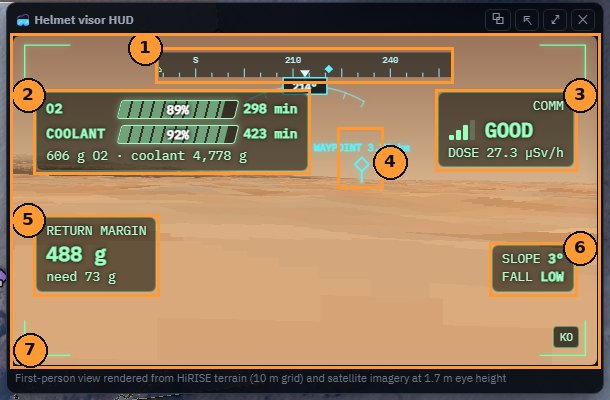
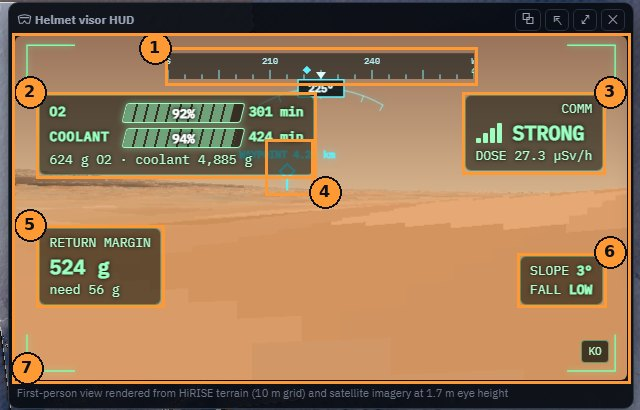
README for judges: download note, 60-second walkthrough, challenge coverage, how it works, repo map; Korean README
- Demo section explains that GitHub shows HTML as source (download raw, then open) and links the presentation page
- Fixed outdated claims (outside-data sites can no longer be picked), added the Viking globe to NASA data,
  expanded limitations, refreshed the visor guide image
- README.ko.md: full Korean version, cross-linked

Claude-Session: https://claude.ai/code/session_01ScDBVWBwv6KDPXFuV3qihM

diff --git a/README.ko.md b/README.ko.md
@@ -1,0 +1,153 @@
+# Mars EVA Walkback & Survival Planner (화성 EVA 귀환·생존 계획 도구)
+
+**NASA Space Apps 2026 · Interplanetary Survival Guide: Martian Map** · [English](README.md) | 한국어
+
+> ### 지금 무언가 고장 나면, 우주인은 걸어서 거점까지 돌아올 수 있을까?
+
+남은 산소·냉각수·방사선 여유로 **EVA 대원이 살아서 돌아올 수 있는 곳**, 어느 지점에서든 **가장 안전한 귀환 경로**,
+그리고 조사하고 싶은 지점에서 **얼마나 오래 작업할 수 있는지**를 보여 주는 10 m 해상도 화성 지도입니다.
+
+**▶ 데모:** [`reports/18-eva-walkback-demo.html`](reports/18-eva-walkback-demo.html) — 설치 없이 오프라인으로 열리는 HTML 파일 하나입니다.
+GitHub는 HTML을 실행하지 않고 소스로 보여 주므로, 링크에서 **Download raw file**을 눌러 받은 뒤 더블클릭하세요
+(데스크톱 Chrome/Edge, 가로 1440 px 이상 권장).
+플래너가 들어간 발표 페이지는 [`submission/Martian-Map-NASAJOIM.html`](submission/Martian-Map-NASAJOIM.html)입니다.
+
+### 60초 체험
+
+1. 처음에는 **Gale 크레이터**가 열립니다. 집 모양이 거점, 화살표가 대원입니다.
+2. **깃발**(Curiosity가 실제로 조사한 지점)을 한두 개 누르세요. 계획 카드에 가는 시간·복귀 시간·작업 시간이 나오고 **OPTIMAL** 계획이 자동으로 골라집니다.
+3. **▶**를 누르면 산소를 쓰면서 색 영역이 줄어드는 것이 보입니다. **Return now**를 누르면 그 자리에서 바로 돌아섭니다.
+4. 오른쪽 아래 **바이저**로 대원의 1인칭 시점을, **지구본**으로 Jezero·Aram Chaos 전환을 해 보세요.
+
+### 챌린지 요구사항과의 대응
+
+| 챌린지가 요구한 것 | 이 플래너에서 |
+|---|---|
+| 지표 탐사 중 우주인이 쓸 수 있는 지도·도구 | 전체 화면 플래너, 탐사 계획 카드, 헬멧 바이저 화면 |
+| 3종 이상의 NASA 자료를 겹쳐 쓰기 | 지형(HiRISE DTM), 광학(HiRISE·CTX·Viking 지구본), 열(THEMIS), 방사선(Curiosity RAD), 로버 이동 경로·Navcam 사진 |
+| 우주인 안전 최우선 | 10 m 칸마다 실제 귀환 경로로 산소·냉각수·선량·통신 확인, 회항 경보와 **Return now** |
+| 우주복·장비를 갖춘 이동성 | NASA 우주복 보행 시험(IST)으로 보행 비용 계산, 경사 20° 초과는 통행 불가, 지형 기복·모래는 비용 증가 |
+| 장애물을 피하는 경로 | 지형 위 산소 최소 경로, 통행 불가 지점은 가장 완만한 길로 |
+| 탐사 중 과학 | 지점은 Curiosity·Perseverance가 실제로 조사한 곳(드릴·시료 채취 지점), 깃발에 마우스를 올리면 한 일을 보여 줌 |
+| 1인칭 시점 이미지 | 정지 지점 근처 로버 Navcam 사진(로드뷰)과 지형으로 그린 1인칭 화면 |
+| 로버·2인 1조 운용 | 로버 모드와 Apollo walk-back 규칙: 로버가 고장 나도 모든 지점에서 걸어서 귀환 가능해야 함 |
+| 헬멧 바이저 HUD | 방위, 산소·냉각수, 통신, 귀환 여유, 경사·넘어짐 위험 |
+
+### 동작 원리
+
+1. **지형:** HiRISE 1 m DTM을 10 m 격자로 평균하고, 이웃 칸(16방향) 사이 경사와 1 m 고도에서 구한 기복 계수를 씁니다.
+2. **대사 비용:** 걷는 속도와 걸음마다의 산소 소모는 NASA IST 우주복 보행 회귀식을 화성 중력에 적용해 구합니다(평지 0.92 m/s에서 444 W). 냉각수는 버려야 할 열에서 계산합니다.
+3. **경로:** 거점에서 시작하는 Dijkstra 탐색으로 모든 칸에 대해 가는 데와 돌아오는 데 드는 최소 산소를 구합니다.
+4. **영역과 계획:** 왕복하고도 출발 산소의 20 % 넘게 남으면 파랑입니다. 계획은 설정한 복귀 여유를 지키면서 남는 시간을 지점별 작업 시간으로 나눕니다.
+
+모든 식과 계산 예시: [docs/METHODS.ko.md](docs/METHODS.ko.md)
+
+### 주요 기능
+
+- **귀환 가능 영역:** 10 m 칸마다 실제 귀환 경로로 산소·냉각수·선량·통신을 확인하고, 왕복 뒤 남는 산소를 색으로 보여 줍니다(>20 %, 10–20 %, 0–10 %).
+- **탐사 계획:** 산소·냉각수·복귀 여유를 넣고 지점을 최대 세 곳 고르면 **최적 방문 순서와 지점별 작업 시간**을 정합니다.
+- **재생과 회항:** 계획을 분 단위로 재생하며 영역이 줄어드는 모습, **회항 경보**, **Return now** 버튼을 보여 줍니다.
+- **가기 어려운 지점:** 경사 20°가 넘는 비탈 너머 지점도 가장 완만한 길로 갈 수 있습니다(경고 표시).
+- **화성 지구본의 세 지역:** Gale(Curiosity), Jezero(Perseverance), Aram Chaos. 고도 자료 밖 둘레는 배경으로 보여 줍니다.
+- **헬멧 바이저:** 지형으로 그린 1인칭 화면에 방위, 산소·냉각수 막대, 통신, 귀환 여유를 표시합니다.
+
+### 사용법
+
+![번호가 붙은 플래너 화면](docs/img/guide-planner.jpg)
+
+**머리줄과 오른쪽 도구**
+1. **현재 지역** — 지도에 보이는 지역.
+2. **설정**(톱니) — 언어, 상황(과학 EVA 포함), 산소·냉각수, 태양 입자 사건(SPE), 안전 옵션(표토, 모래언덕 자료가 있는 지역의 모래 계수), 지도 레이어. 오른쪽에서 열립니다.
+3. **지구본** — 화성 지구본(아래)에서 Gale·Jezero·Aram Chaos를 고릅니다. 지역을 바꾸면 고른 지점은 지워집니다.
+4. **로드뷰** — 각 정지 지점 근처에서 로버가 실제로 찍은 사진(NASA/JPL Navcam).
+5. **N** — 정북 위 ↔ 목표 방향 위(지금 가는 목표가 화면 위로). 대원 위치를 축으로 부드럽게 돕니다.
+6. **확대·축소** — 마우스 휠도 됩니다. 어디서든(고도 자료 밖 포함) 끌어서 이동합니다.
+7. **원래 보기**.
+8. **바이저**(오른쪽 아래) — 헬멧 1인칭 시점(아래).
+9. **상태** — 지금 산소·냉각수·선량·통신. 제목을 끌어 옮기고(두 번 누르면 원래 자리), 짧게 누르면 접힙니다.
+
+**지도**
+
+10. **거점**(집) — 대원(화살표)이 여기서 출발합니다. 집을 끌어 옮기면 대원도 함께 옮겨지고 경로와 영역이 다시 계산됩니다. 설정 › 상황에서 착륙지로 되돌릴 수 있습니다.
+11. **과학 지점**(깃발) — 로버가 실제로 조사한 곳. 마우스를 올리면 그곳에서 한 일이 나오고, 누르면 계획에 넣습니다(최대 세 곳: A, B, C). 고도 자료가 있는 다른 지점도 고를 수 있습니다. 자료 밖은 경사를 몰라 경로·산소를 계산할 수 없어서 고를 수 없습니다.
+12. **대원** — 재생 중 화살표가 걷는 방향을 가리킵니다.
+13. **범례** — 색 = 거점에서 왕복한 뒤 남는 산소(>20 %, 10–20 %, 0–10 %). 빗금 = HiRISE 띠 밖의 평지 가정 추정.
+
+**탐사 계획 카드**
+
+14. **도보 / 로버** — 카드를 접어도 보입니다.
+15. **자원** — 산소(g), 냉각수(kg), 복귀 때 남길 여유(%). 여유는 지도 색이 아니라 작업 시간과 돌아서는 시점을 바꿉니다(1 % → 작업 140분, 약 8 g 남기고 도착).
+16. **지점과 작업 시간** — 지점마다 분을 넣거나, 비워 두면 최적값(흐리게 표시)을 씁니다. ×로 지점을 뺍니다.
+17. **시간** — 가는 시간·복귀 시간·작업 시간. 재생 중에는 다음 지점까지, 지금 돌아서면 복귀까지, 더 작업할 수 있는 시간.
+18. **시나리오** — 고른 지점의 모든 조합과 순서. **OPTIMAL**(지점 가장 많이, 그다음 작업 시간 가장 길게)이 기본이고, 다른 카드를 누르면 그 계획을 씁니다.
+19. **재생** — ▶ 재생/일시정지, ↺ 처음으로, **Return now**(그 자리에서 거점으로 돌아가기), 속도.
+20. **접기** — 카드를 접어 지도를 넓게 봅니다.
+21. **계획 초기화**(휴지통) — 고른 지점을 모두 지웁니다.
+
+**과학 EVA**(설정 › 상황): 아래 카드가 *SCIENCE EVA PLAN*으로 바뀌고 로버 조사 지점, 작업 시간, 방문 순서가 나옵니다. 카드 오른쪽 위 ✕로 탐사 계획으로 돌아갑니다.
+
+재생 중에는 지도 아래로 스크롤하면 실시간 그래프(심박, 보정계수 k, 쓸 수 있는 산소 vs 귀환에 필요한 산소)가 있습니다.
+
+![지역을 고르는 화성 지구본](docs/img/guide-globe.jpg)
+
+1. **지역 핀** — Gale(Curiosity), Jezero(Perseverance), Aram Chaos를 위경도 위치에 표시합니다. 누르면 그 지도가 열립니다.
+2. **지구본** — 끌어서 돌리고 휠로 확대합니다. 영상: NASA/JPL Mars Trek, Viking MDIM 2.1 컬러 모자이크.
+3. **닫기**.
+
+![번호가 붙은 헬멧 바이저](docs/img/guide-visor.jpg)
+
+1. **방위**(0–360°)와 거점(⌂)·목표(◆) 표시.
+2. **산소와 냉각수** — 막대 안에 %, 옆에 남은 분.
+3. **통신** — 거점과의 신호 세기, 선량률.
+4. **목표 지점** — 다음 지점과 거리(시야 밖이면 화면 가장자리에 화살표).
+5. **귀환 여유** — 여기서 걸어서 돌아간 뒤 남는 산소와, 귀환에 필요한 산소.
+6. **경사와 넘어짐 위험**(지금 칸).
+7. 바이저를 **끌면** 360° 둘러보고, 두 번 누르면 걷는 방향으로 돌아옵니다. ⧉는 별도 창으로 엽니다. 사진이 아니라 10 m 지형으로 그린 화면입니다.
+
+### 신뢰할 수 있는 이유
+
+- **우주복 실측 자료:** 보행 비용은 NASA IST-1/2 감소 중력 우주복 보행 시험에서 나옵니다(평지 444 W).
+- **모든 식을 계산 예시와 함께 공개:** [docs/METHODS.ko.md](docs/METHODS.ko.md) · [English](docs/METHODS.md), 지형계수 η: [docs/TERRAIN.ko.md](docs/TERRAIN.ko.md).
+- **독립 검증:** [`walkback_verification/`](walkback_verification/)에서 모델을 따로 다시 구현했고 데모와 일치합니다(**Gale, 산소 150 g → 9.72 km²**).
+- **모델 선택의 영향:** 예전 Pandolf × 중력 모델은 같은 조건에서 **면적을 2배**로 계산합니다. 그래서 우주복 보행 실측(IST)을 씁니다.
+
+### NASA 자료
+
+HiRISE 1 m DTM과 정사영상 · MRO CTX 모자이크(둘레) · Curiosity·Perseverance 이동 경로와 Navcam 사진 ·
+Mars 2020 시료 목록 · JPL Mars Trek THEMIS 야간 적외선과 Viking MDIM 2.1 컬러 모자이크(지구본) · Curiosity RAD.
+지역: **Gale**, **Jezero 삼각주**, **Aram Chaos**.
+
+### 실측 자료와 모델의 구분
+
+| 실측·공개 자료 (NASA) | 모델·시나리오 (우리가 계산하거나 정한 값) |
+|---|---|
+| HiRISE 1 m DTM과 정사영상 | 보행 대사량(NASA IST 시험 회귀식을 화성 중력에 외삽) |
+| Curiosity·Perseverance 이동 경로, 정지 지점, Navcam 원본 사진 | 귀환 경로, 귀환 가능 면적, 작업 시간(Dijkstra 결과) |
+| Mars 2020 시료 목록 | 실시간 그래프의 심박 원격측정(합성 시나리오) |
+| Curiosity RAD 배경 선량, 관측된 SPE ×2.9 | 선량 예산 1 mSv, 지형 차폐 대리값, 큰 SPE 배수 |
+| Apollo 15–17 PLSS 소모품(산소 680 g, 물 5.2 kg) | 로버 속도와 탑승 대사량, 넘어짐 위험·통신 막대 대리값 |
+| JPL Mars Trek THEMIS 야간 적외선, Viking 컬러 모자이크 | 10 m 지형으로 그린 1인칭 바이저(사진 아님), 고도 자료 밖 색(평지 가정 추정) |
+
+### 한계
+
+- 우주복 시험은 지구에서 0.12–0.32 g로 했고 화성 중력에서 한 것이 아닙니다. 내리막 비용은 축소 외삽입니다.
+- 10 m 격자는 칸보다 작은 바위를 평평하게 만듭니다. 기복은 바위 부담의 대리값이지 바위 개수가 아닙니다.
+- HiRISE 고도 띠 밖은 경사 자료가 없어 색이 평지 가정 추정이고, 지점으로 고를 수 없습니다.
+- 심박 원격측정은 합성 시나리오이고, 로버 속도와 탑승 대사량은 가정입니다.
+- 지형 차폐, 넘어짐 위험, 통신 막대는 측정값이 아닌 대리값입니다. 실제 EVA 안전 시스템이 아니라 계획용 데모입니다.
+
+### 저장소 구성
+
+| 경로 | 내용 |
+|---|---|
+| `reports/18-eva-walkback-demo.html` | 플래너(빌드된 단일 파일) |
+| `submission/` | 플래너가 들어간 발표 페이지와 그 빌드 스크립트 |
+| `code/demo_template.html`, `code/i18n_en.js` | 플래너 원본과 영어 사전 |
+| `code/build_demo_html.py` | 원본과 준비된 지형 자료로 플래너를 빌드 |
+| `walkback_verification/` | 귀환 모델의 독립 재구현 |
+| `docs/` | 계산 방법, 지형계수, 설명서 이미지 |
+
+---
+
+<sub>다시 빌드: `cd code && python build_demo_html.py` · 프로젝트 초기의 SLAM·지형 AI 연구:
+[Martian_SLAM](https://github.com/jstak0804/Martian_SLAM) · AI 코딩 도우미(Claude Code)를 활용해 만들었습니다. 모든 영상은 NASA/JPL-Caltech.</sub>

diff --git a/README.md b/README.md
@@ -1,22 +1,55 @@
 # Mars EVA Walkback & Survival Planner
 
-**NASA Space Apps 2026 · Interplanetary Survival Guide: Martian Map**
+**NASA Space Apps 2026 · Interplanetary Survival Guide: Martian Map** · English | [한국어](README.ko.md)
 
 > ### If something breaks right now, can the astronaut still walk back to base?
 
 A 10 m map of Mars that shows **where an EVA crew can still get home alive** with the oxygen, coolant
-and radiation margin they have left, and **the safest way back** from any point.
+and radiation margin they have left, **the safest way back** from any point, and **how long they can work**
+at the sites they want to study.
 
-**▶ Demo:** [`reports/18-eva-walkback-demo.html`](reports/18-eva-walkback-demo.html) — one HTML file, open it in a desktop browser (best at 1440 px wide or more).
+**▶ Demo:** [`reports/18-eva-walkback-demo.html`](reports/18-eva-walkback-demo.html) — one self-contained HTML file (no install, works offline).
+GitHub shows the source of HTML files, so open the link, press **Download raw file**, then double-click the file
+(desktop Chrome/Edge, best at 1440 px wide or more).
+The presentation page with the planner embedded is [`submission/Martian-Map-NASAJOIM.html`](submission/Martian-Map-NASAJOIM.html).
 
----
+### Try it in 60 seconds
+
+1. The map opens on **Gale crater**; the house is the base and the arrow is the crew.
+2. Click one or two **flags** (sites Curiosity actually studied). The plan card shows go / return / work time and picks the **OPTIMAL** plan.
+3. Press **▶** — watch the coloured zone shrink as O2 is used, then press **Return now** to turn back at once.
+4. Open the **visor** (bottom-right) for the crew's first-person view, or the **globe** to switch to Jezero or Aram Chaos.
+
+### How it answers the challenge
+
+| Challenge asks for | In this planner |
+|---|---|
+| A map or tool an astronaut could use on a surface mission | Full-screen planner, trip plan card and a helmet visor view |
+| At least three kinds of NASA data, layered | Topographic (HiRISE DTM), optical (HiRISE, CTX, Viking globe), thermal (THEMIS), radiation (Curiosity RAD), rover traverses and Navcam images |
+| Astronaut safety first | Every 10 m cell is checked for O2, coolant, dose and comms on the actual walk home; a turn-back alarm and **Return now** |
+| Mobility in a suit, with equipment | Walking cost from NASA suited-walking tests (IST); slopes over 20° are impassable; terrain roughness and sand raise the cost |
+| A route that avoids obstacles | Lowest-O2 routes over the terrain; impassable sites are reached by the gentlest route |
+| Science along the way | Sites are places Curiosity and Perseverance studied (drill and sample sites); hover a flag for what was done there |
+| Point-of-view images | Rover Navcam photos near each stop (Roadview) and a first-person view rendered from the terrain |
+| Rovers / pairs of astronauts | Rover mode with the Apollo walk-back rule: every site must stay walkable home if the rover fails |
+| A HUD on the helmet visor | Visor with heading, O2/coolant, comms, return margin, slope and fall risk |
+
+### How it works
+
+1. **Terrain:** HiRISE 1 m DTMs are averaged to a 10 m grid; slope between neighbouring cells (16 directions) and a roughness factor come from the 1 m heights.
+2. **Metabolic cost:** walking speed and O2 use per step come from NASA IST suited-walking regressions at Mars gravity (444 W on level ground at 0.92 m/s); coolant follows from the heat to be rejected.
+3. **Routes:** Dijkstra searches from the base give, for every cell, the lowest O2 needed to come back and to get there.
+4. **Zones and plans:** a cell is blue if a round trip leaves more than 20 % of the starting O2; the planner then splits the remaining time into work time per site, keeping the return reserve you set.
+
+All formulas with worked examples: [docs/METHODS.md](docs/METHODS.md).
 
 ### Key features
 
 - **Walk-back zone:** every 10 m cell is checked for O2, coolant, dose and comms on the real return route; colours show the O2 left after a round trip (>20 %, 10–20 %, 0–10 %).
 - **Exploration planner:** enter O2, coolant and a return reserve, pick up to three sites, and it chooses the **optimal visit order and work time per site**.
 - **Playback with turn-back:** the plan plays minute by minute with a shrinking zone, a **turn-back alarm** and a **Return now** button.
-- **Hard-to-reach sites:** impassable sites are reached by the gentlest route; sites outside the elevation data use a level-ground estimate.
+- **Hard-to-reach sites:** a site behind slopes over 20° is still reachable by the gentlest route (with a warning).
+- **Three regions on a Mars globe:** Gale (Curiosity), Jezero (Perseverance) and Aram Chaos; surroundings beyond the elevation data are shown as context.
 - **Helmet visor:** first-person view from the terrain model with heading, O2/coolant bars, comms and return margin.
 
 ### How to use
@@ -67,10 +100,10 @@ During playback, scroll below the map for the live chart (heart rate, correction
 1. **Heading** (0–360°) with base (⌂) and target (◆) marks.
 2. **O2 and coolant** — % inside the bar, minutes left beside it.
 3. **Comms** — signal strength to the base, and dose rate.
-4. **Waypoint** — the next site and its distance; an arrow at the edge when it is off-screen.
+4. **Waypoint** — the next site and its distance (an arrow at the screen edge when it is out of view).
 5. **Return margin** — O2 left after walking home from here, and the O2 that return needs.
 6. **Slope and fall risk** at the current cell.
-7. **Drag** the visor to look around 360°; double-click to face the walking direction again. ⧉ opens it as a separate window.
+7. **Drag** the visor to look around 360°; double-click to face the walking direction again. ⧉ opens it as a separate window. The view is rendered from the 10 m terrain, not a photograph.
 
 ### Why it is credible
 
@@ -82,7 +115,7 @@ During playback, scroll below the map for the live chart (heart rate, correction
 ### NASA data
 
 HiRISE 1 m DTMs and orthoimages · MRO CTX mosaics (surroundings) · Curiosity and Perseverance traverses and Navcam images ·
-Mars 2020 sample list · JPL Mars Trek THEMIS · Curiosity RAD.
+Mars 2020 sample list · JPL Mars Trek THEMIS night IR and Viking MDIM 2.1 colour mosaic (globe) · Curiosity RAD.
 Sites: **Gale**, **Jezero delta**, **Aram Chaos**.
 
 ### Observed data vs. models
@@ -91,16 +124,29 @@ Sites: **Gale**, **Jezero delta**, **Aram Chaos**.
 |---|---|
 | HiRISE 1 m DTMs and orthoimages | Walking metabolism (regression on NASA IST tests, extrapolated to Mars gravity) |
 | Curiosity / Perseverance traverses, stops, Navcam raw images | Return routes, walk-back areas, stay times (Dijkstra results) |
-| Mars 2020 sample list | Heart-rate and tank-pressure telemetry (synthetic scenarios or CSV input) |
+| Mars 2020 sample list | Heart-rate telemetry in the live chart (synthetic scenario) |
 | Curiosity RAD background dose, observed SPE ×2.9 | 1 mSv dose budget, terrain shielding proxy, large SPE multipliers |
 | Apollo 15–17 PLSS consumables (680 g O2, 5.2 kg water) | Rover speed and riding metabolism; fall-risk and comm-bar proxies |
-| JPL Mars Trek THEMIS night IR | First-person visor rendered from the 10 m terrain (not a photograph) |
+| JPL Mars Trek THEMIS night IR, Viking colour mosaic | First-person visor rendered from the 10 m terrain (not a photograph); colours outside the elevation strip (level-ground estimate) |
 
 ### Limitations
 
-- The suit tests ran at 0.12–0.32 g on Earth, not at Mars gravity.
-- Telemetry in the demo is synthetic or loaded from CSV.
-- Terrain shielding, fall risk and comm bars are proxies, not measurements.
+- The suit tests ran at 0.12–0.32 g on Earth, not at Mars gravity; downhill costs are scaled extrapolations.
+- A 10 m grid smooths out rocks smaller than a cell; roughness is a proxy for rock load, not a rock count.
+- Outside the HiRISE elevation strip there is no slope data: the colours there are a level-ground estimate and those areas cannot be picked as sites.
+- Heart-rate telemetry is a synthetic scenario; rover speed and riding metabolism are assumptions.
+- Terrain shielding, fall risk and comm bars are proxies, not measurements. This is a planning demo, not an operational EVA safety system.
+
+### Repository
+
+| Path | What it is |
+|---|---|
+| `reports/18-eva-walkback-demo.html` | The planner (single file, built) |
+| `submission/` | Presentation page with the planner embedded, and its builder |
+| `code/demo_template.html`, `code/i18n_en.js` | Planner source and English dictionary |
+| `code/build_demo_html.py` | Builds the planner from the template and the prepared terrain data |
+| `walkback_verification/` | Independent re-derivation of the walk-back model |
+| `docs/` | Methods, terrain factor, guide images |
 
 ---
 
